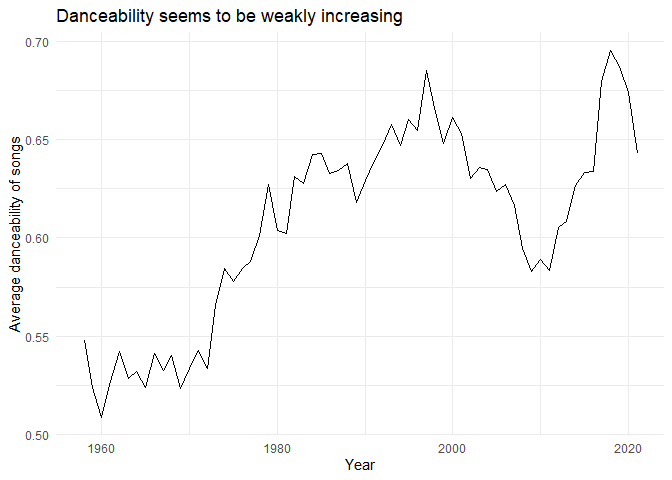
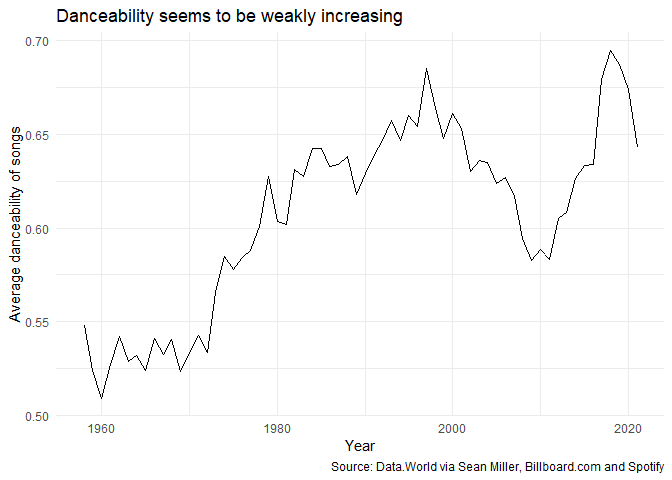
Minor fixes

diff --git a/billboard.md b/billboard.md
@@ -234,7 +234,8 @@ song_data %>%
   labs(
     x = "Year",
     y = "Average danceability of songs",
-    title = "Danceability seems to be weakly increasing"
+    title = "Danceability seems to be weakly increasing",
+    caption = "Source: Data.World via Sean Miller, Billboard.com and Spotify"
   )
 ```
 
@@ -298,7 +299,8 @@ song_data %>%
   geom_point(alpha = 0.15) + #So we can see all the points
   labs(
     x = "First appearance in charts",
-    y = "Danceability"
+    y = "Danceability",
+    caption = "Source: Data.World via Sean Miller, Billboard.com and Spotify",
   ) +
   geom_smooth() + #Trend line
   theme_minimal()
